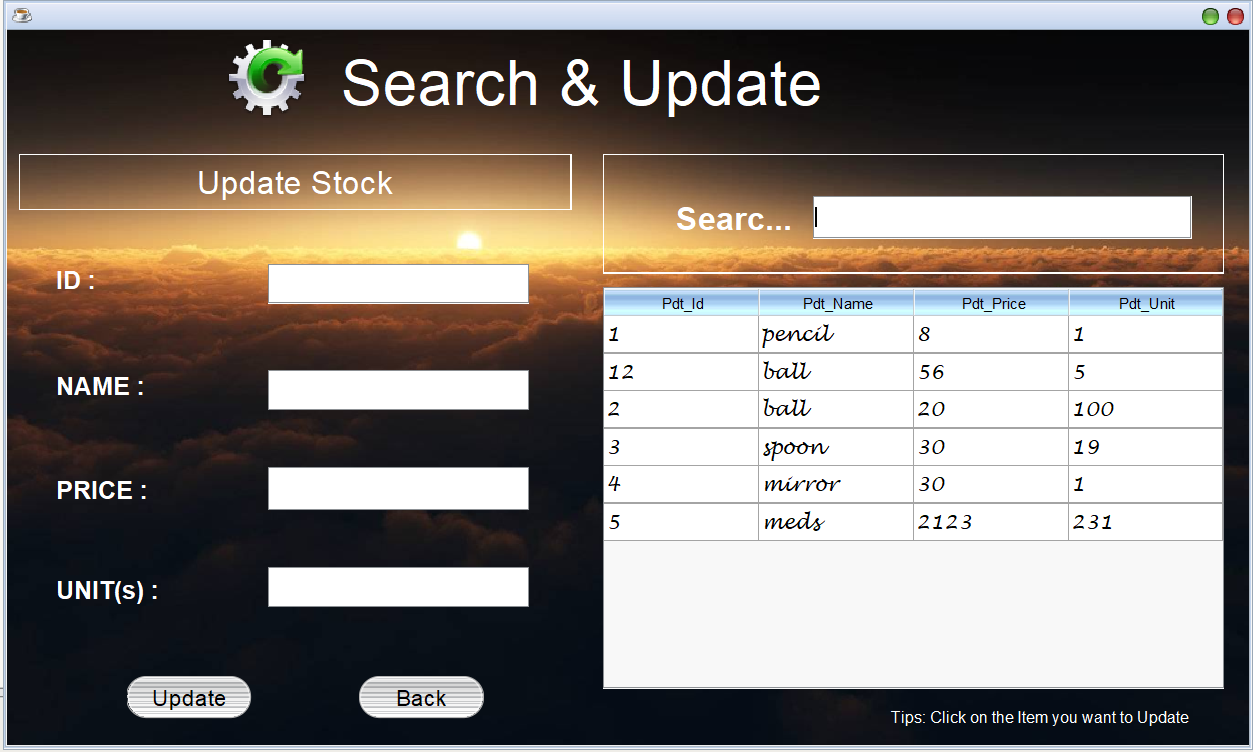
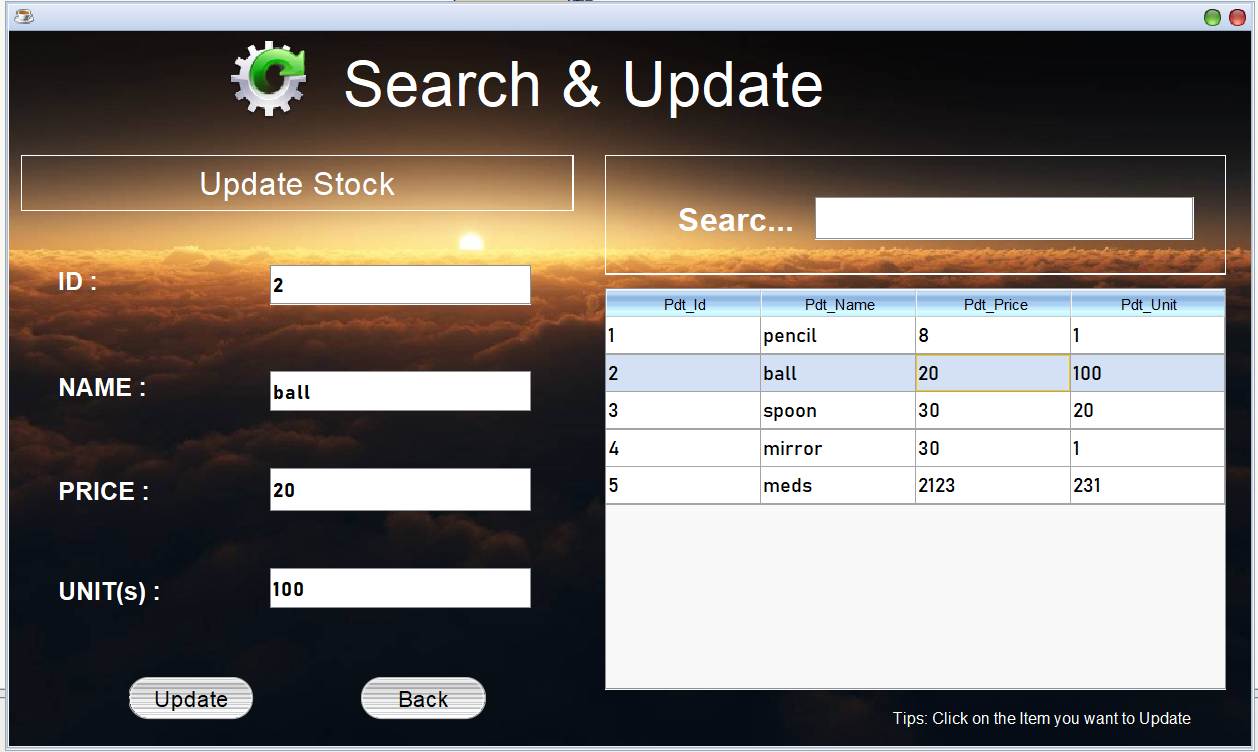
UI Update #1

diff --git a/src/Delete.java b/src/Delete.java
@@ -142,25 +142,25 @@ public class Delete extends JFrame {
         contentPane.add(lblUnit);
 
         txtUnit = new JTextField();
-        txtUnit.setFont(new Font("Lucida Handwriting", Font.BOLD, 16));
+        txtUnit.setFont(new Font("Bahnschrift", Font.BOLD, 16));
         txtUnit.setBounds(209, 430, 209, 32);
         contentPane.add(txtUnit);
         txtUnit.setColumns(10);
 
         txtPrice = new JTextField();
-        txtPrice.setFont(new Font("Lucida Handwriting", Font.BOLD, 16));
+        txtPrice.setFont(new Font("Bahnschrift", Font.BOLD, 16));
         txtPrice.setBounds(209, 350, 209, 34);
         contentPane.add(txtPrice);
         txtPrice.setColumns(10);
 
         txtName = new JTextField();
-        txtName.setFont(new Font("Lucida Handwriting", Font.BOLD, 16));
+        txtName.setFont(new Font("Bahnschrift", Font.BOLD, 16));
         txtName.setBounds(209, 272, 209, 32);
         contentPane.add(txtName);
         txtName.setColumns(10);
 
         txtID = new JTextField();
-        txtID.setFont(new Font("Lucida Handwriting", Font.BOLD, 16));
+        txtID.setFont(new Font("Bahnschrift", Font.BOLD, 16));
         txtID.setBounds(209, 187, 209, 32);
         contentPane.add(txtID);
         txtID.setColumns(10);
@@ -170,7 +170,7 @@ public class Delete extends JFrame {
         contentPane.add(scrollPane);
 
         table = new JTable();
-        table.setFont(new Font("Lucida Handwriting", Font.PLAIN, 16));
+        table.setFont(new Font("Bahnschrift", Font.PLAIN, 16));
         table.setRowHeight(30);
         table.getTableHeader().setFont(new Font("Times New Roman", Font.CENTER_BASELINE, 20));
         table.addMouseListener(new MouseAdapter() {

diff --git a/src/Update.java b/src/Update.java
@@ -145,25 +145,25 @@ public class Update extends JFrame {
         contentPane.add(lblUnit);
 
         txtUnit = new JTextField();
-        txtUnit.setFont(new Font("Lucida Handwriting", Font.BOLD, 16));
+        txtUnit.setFont(new Font("Bahnschrift", Font.BOLD, 16));
         txtUnit.setBounds(209, 430, 209, 32);
         contentPane.add(txtUnit);
         txtUnit.setColumns(10);
 
         txtPrice = new JTextField();
-        txtPrice.setFont(new Font("Lucida Handwriting", Font.BOLD, 16));
+        txtPrice.setFont(new Font("Bahnschrift", Font.BOLD, 16));
         txtPrice.setBounds(209, 350, 209, 34);
         contentPane.add(txtPrice);
         txtPrice.setColumns(10);
 
         txtName = new JTextField();
-        txtName.setFont(new Font("Lucida Handwriting", Font.BOLD, 16));
+        txtName.setFont(new Font("Bahnschrift", Font.BOLD, 16));
         txtName.setBounds(209, 272, 209, 32);
         contentPane.add(txtName);
         txtName.setColumns(10);
 
         txtID = new JTextField();
-        txtID.setFont(new Font("Lucida Handwriting", Font.BOLD, 16));
+        txtID.setFont(new Font("Bahnschrift", Font.BOLD, 16));
         txtID.setBounds(209, 187, 209, 32);
         contentPane.add(txtID);
         txtID.setColumns(10);
@@ -207,7 +207,7 @@ public class Update extends JFrame {
         contentPane.add(scrollPane);
 
         table = new JTable();
-        table.setFont(new Font("Lucida Handwriting", Font.PLAIN, 16));
+        table.setFont(new Font("Bahnschrift", Font.PLAIN, 16));
         table.setRowHeight(30);
         table.getTableHeader().setFont(new Font("Times New Roman", Font.CENTER_BASELINE, 20));
         table.addMouseListener(new MouseAdapter() {

diff --git a/src/Sell.java b/src/Sell.java
@@ -122,25 +122,25 @@ public class Sell extends JFrame {
         contentPane.add(lblUnit);
 
         txtUnit = new JTextField();
-        txtUnit.setFont(new Font("Lucida Handwriting", Font.BOLD, 16));
+        txtUnit.setFont(new Font("Bahnschrift", Font.BOLD, 16));
         txtUnit.setBounds(209, 430, 209, 32);
         contentPane.add(txtUnit);
         txtUnit.setColumns(10);
 
         txtPrice = new JTextField();
-        txtPrice.setFont(new Font("Lucida Handwriting", Font.BOLD, 16));
+        txtPrice.setFont(new Font("Bahnschrift", Font.BOLD, 16));
         txtPrice.setBounds(209, 350, 209, 34);
         contentPane.add(txtPrice);
         txtPrice.setColumns(10);
 
         txtName = new JTextField();
-        txtName.setFont(new Font("Lucida Handwriting", Font.BOLD, 16));
+        txtName.setFont(new Font("Bahnschrift", Font.BOLD, 16));
         txtName.setBounds(209, 272, 209, 32);
         contentPane.add(txtName);
         txtName.setColumns(10);
 
         txtID = new JTextField();
-        txtID.setFont(new Font("Lucida Handwriting", Font.BOLD, 16));
+        txtID.setFont(new Font("Bahnschrift", Font.BOLD, 16));
         txtID.setBounds(209, 187, 209, 32);
         contentPane.add(txtID);
         txtID.setColumns(10);
@@ -164,7 +164,7 @@ public class Sell extends JFrame {
         contentPane.add(scrollPane);
 
         table = new JTable();
-        table.setFont(new Font("Lucida Handwriting", Font.PLAIN, 16));
+        table.setFont(new Font("Bahnschrift", Font.PLAIN, 16));
         table.setRowHeight(30);
         table.getTableHeader().setFont(new Font("Times New Roman", Font.CENTER_BASELINE, 20));
 

diff --git a/src/Add.java b/src/Add.java
@@ -109,25 +109,25 @@ public class Add extends JFrame {
         txtID = new JTextField();
         txtID.setBounds(416, 104, 240, 30);
         contentPane.add(txtID);
-        txtID.setFont(new Font("Lucida Handwriting", Font.PLAIN, 15));
+        txtID.setFont(new Font("Bahnschrift", Font.PLAIN, 15));
         txtID.setColumns(10);
 
         txtName = new JTextField();
         txtName.setBounds(416, 168, 240, 30);
         contentPane.add(txtName);
-        txtName.setFont(new Font("Lucida Handwriting", Font.PLAIN, 15));
+        txtName.setFont(new Font("Bahnschrift", Font.PLAIN, 15));
         txtName.setColumns(10);
 
         txtPrice = new JTextField();
         txtPrice.setBounds(416, 245, 240, 30);
         contentPane.add(txtPrice);
-        txtPrice.setFont(new Font("Lucida Handwriting", Font.PLAIN, 15));
+        txtPrice.setFont(new Font("Bahnschrift", Font.PLAIN, 15));
         txtPrice.setColumns(10);
 
         txtUnit = new JTextField();
         txtUnit.setBounds(416, 309, 240, 30);
         contentPane.add(txtUnit);
-        txtUnit.setFont(new Font("Lucida Handwriting", Font.PLAIN, 15));
+        txtUnit.setFont(new Font("Bahnschrift", Font.PLAIN, 15));
         txtUnit.setColumns(10);
 
         JButton btnAdd = new JButton("ADD");

diff --git a/src/Connectionz.java b/src/Connectionz.java
@@ -1,7 +1,6 @@
-
 import java.sql.*;
-public class Connectionz {
-
+public class Connectionz
+{
     public static Connection con;
     public static String dbFile="res/Stockdata.accdb";
     public static String dbUrl="jdbc:ucanaccess://"+dbFile.trim()+"; memory=true";
@@ -14,5 +13,4 @@ public class Connectionz {
         }
         return con;
     }
-
 }

diff --git a/src/User.java b/src/User.java
@@ -1,10 +1,7 @@
-
 import java.sql.*;
-
 import javax.swing.JOptionPane;
 
 public class User {
-
 	public void update(String ID,String NAME,String PRICE,String UNIT){
 
 		try{

diff --git a/README.md b/README.md
@@ -3,6 +3,9 @@ INMAS is an Inventory Management System in Java with GUI support that can be use
 
 
 ## Screenshots
+***
+![Login](screenshots/login.png "INMAS login page")
+***
 ![Welcome](screenshots/welcome.png "INMAS welcome page")
 ***
 ![Update](screenshots/update.png "INMAS updating items")
